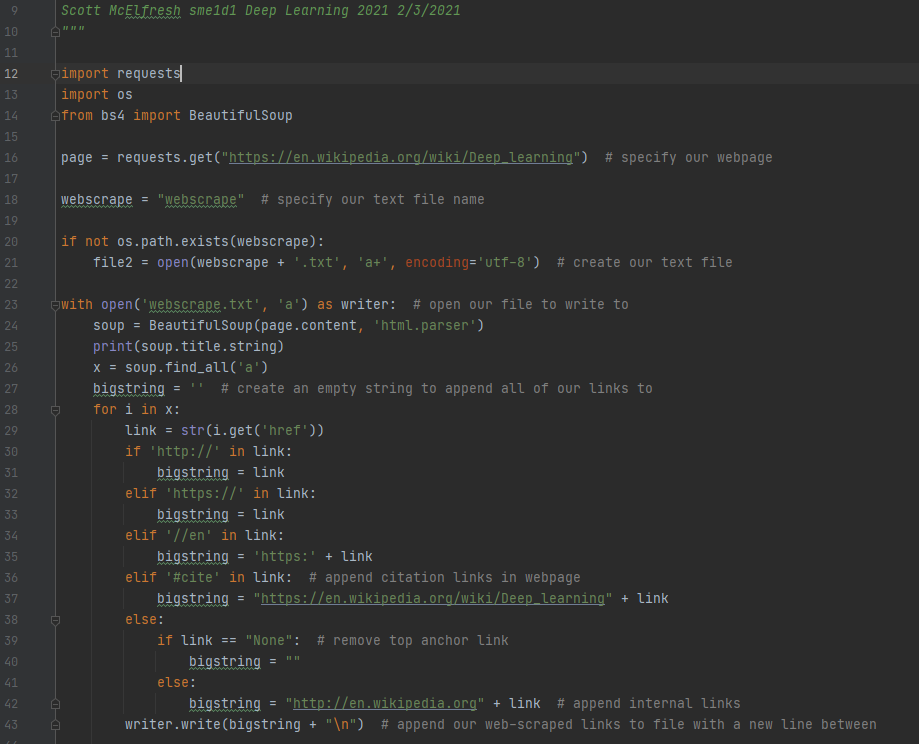
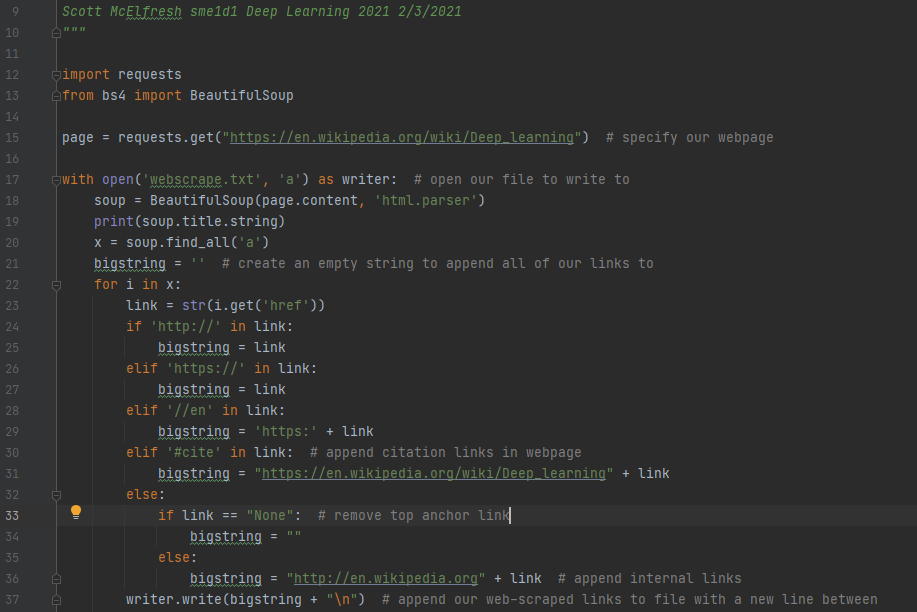
updated code and comments

diff --git a/ICP/ICP3/source/ICP3_2.py b/ICP/ICP3/source/ICP3_2.py
@@ -10,15 +10,9 @@ Scott McElfresh sme1d1 Deep Learning 2021 2/3/2021
 """
 
 import requests
-import os
 from bs4 import BeautifulSoup
 
 page = requests.get("https://en.wikipedia.org/wiki/Deep_learning")  # specify our webpage
-
-webscrape = "webscrape"  # specify our text file name
-
-if not os.path.exists(webscrape):
-    file2 = open(webscrape + '.txt', 'a+', encoding='utf-8')  # create our text file
 
 with open('webscrape.txt', 'a') as writer:  # open our file to write to
     soup = BeautifulSoup(page.content, 'html.parser')
